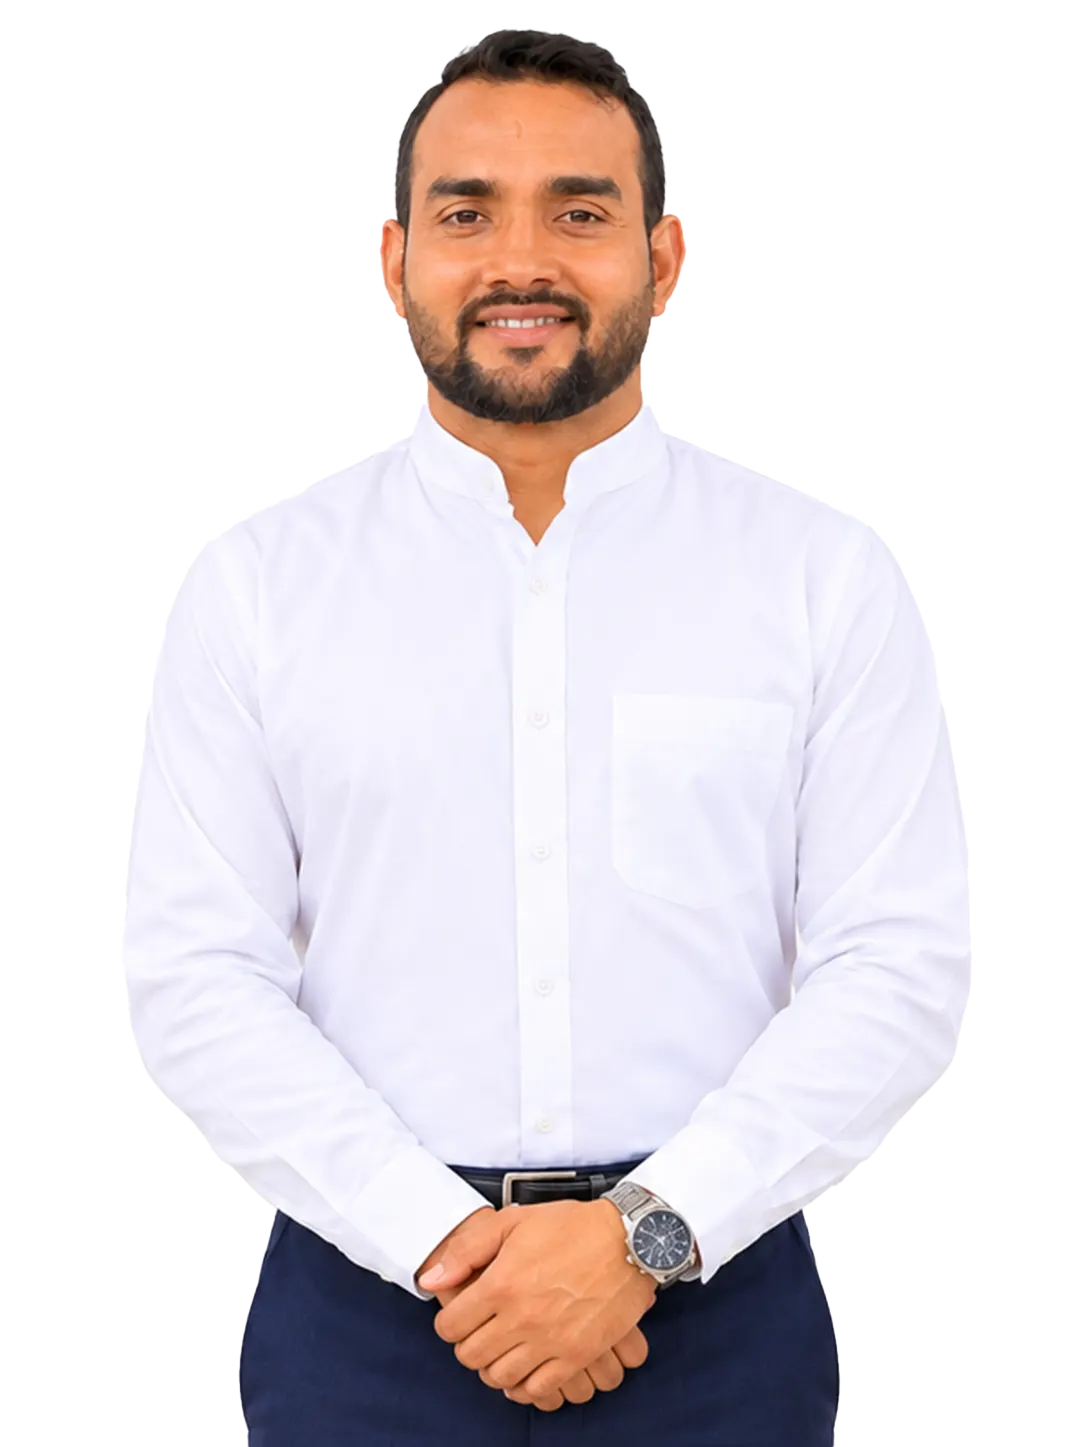
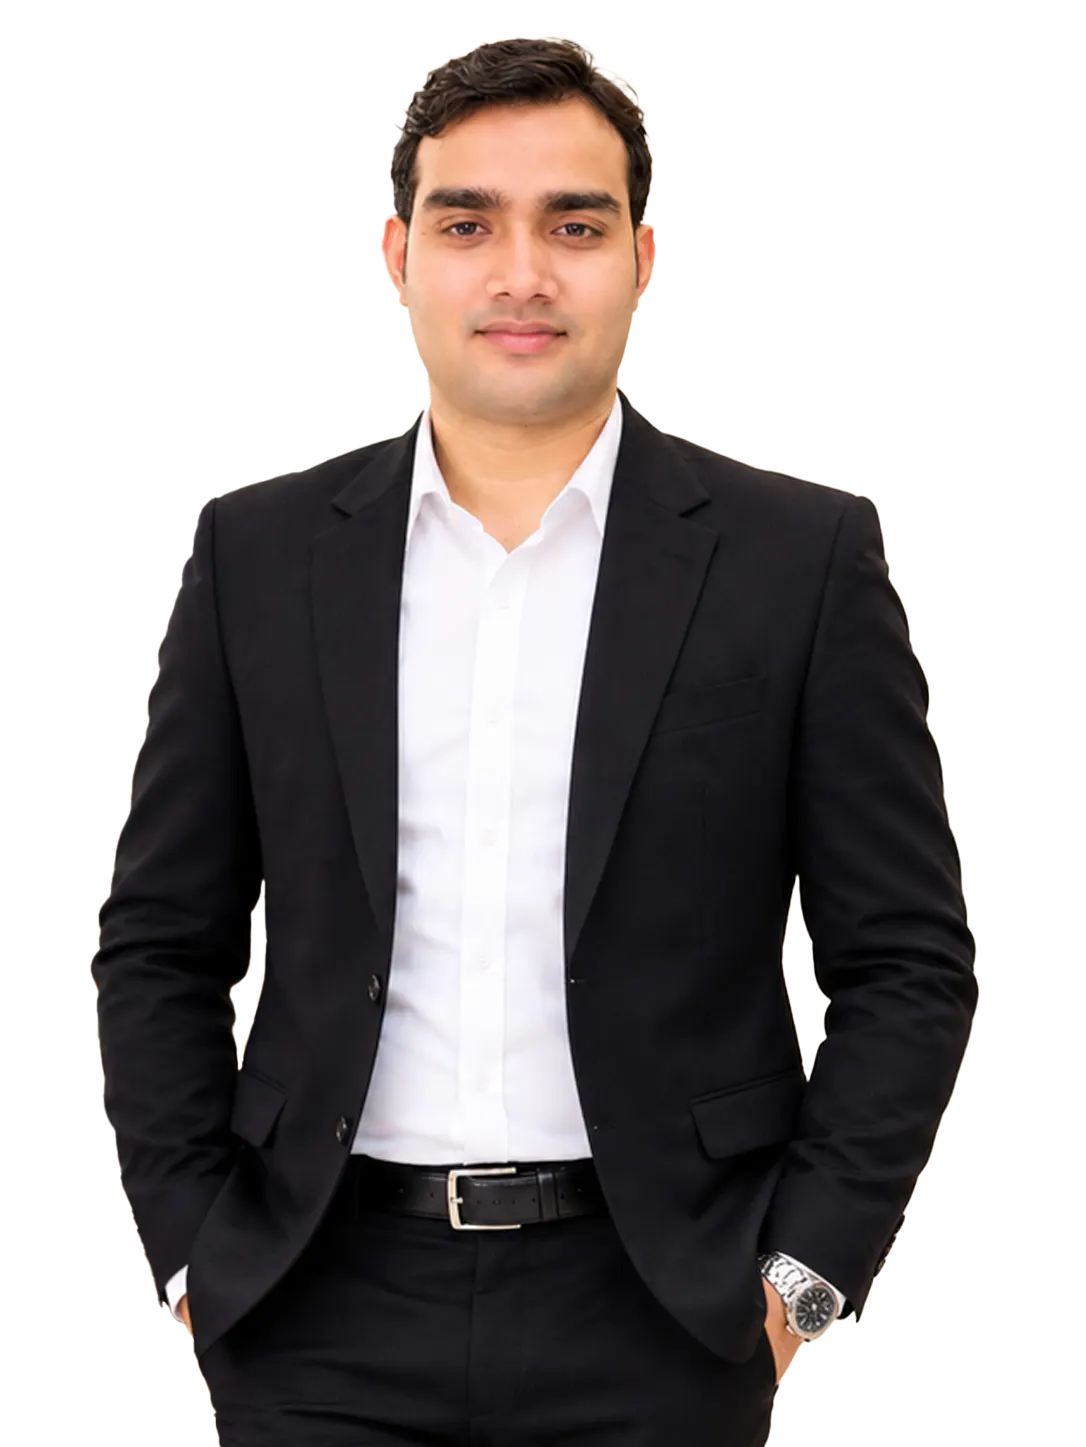
hero section updated

diff --git a/index.html b/index.html
@@ -1709,13 +1709,13 @@
                                                         <path d="M5 12h14m-6-6 6 6-6 6"></path>
                                                  </svg></span></span>
                             </button>
-                            <!-- <button aria-controls="mentor-dialog" aria-expanded="false" aria-haspopup="dialog" aria-label="View profile: Dr. Dharmita" class="faculty-person mentor-person" data-faculty="ashu-sharma" data-mentor="7" data-profile-src="images/rupram-sharma-nur-facu.webp" type="button">
+                            <button aria-controls="mentor-dialog" aria-expanded="false" aria-haspopup="dialog" aria-label="View profile: Dr. Dharmita" class="faculty-person mentor-person" data-faculty="ashu-sharma" data-mentor="7" data-profile-src="images/rupram-sharma-nur-facu.webp" type="button">
                                    <span aria-hidden="true" class="faculty-panel"></span>
                                    <img alt="Mr. Rupram Sharma" decoding="async" height="1448" loading="lazy" src="images/rupram-sharma-nur-facu.webp" width="1086">
                                    <span class="faculty-caption"><strong>Mr. Rupram Sharma</strong><span>Assistant Professor</span><span class="faculty-more">Click to know more <svg aria-hidden="true" viewBox="0 0 24 24">
                                                         <path d="M5 12h14m-6-6 6 6-6 6"></path>
                                                  </svg></span></span>
-                            </button> -->
+                            </button>
                             
                             <button aria-controls="mentor-dialog" aria-expanded="false" aria-haspopup="dialog" aria-label="View profile: Dr Priya Choudhary" class="faculty-person mentor-person" data-faculty="damyanti-kanwar-rathore" data-mentor="9" data-profile-src="images/dr-ankit-jain-nur-facu.webp" type="button">
                                    <span aria-hidden="true" class="faculty-panel"></span>
@@ -1885,7 +1885,7 @@
                                                  <button aria-label="View Dr. Naresh K. Soni" aria-pressed="false" data-mentor-thumb="4" type="button"><img alt="Dr. Naresh K. Soni" height="1447" loading="lazy" src="images/dr-naresh-kumar-soni.webp" width="1087"></button>
                                                  <button aria-label="View Dr. Naveen Nargar" aria-pressed="false" data-mentor-thumb="5" type="button"><img alt="Dr. Naveen Nargar" height="1447" loading="lazy" src="images/dr-naveen-nagar-associate-professor-nur-facu.webp" width="1087"></button>
                                                  <button aria-label="View Ms. Monika Yadav" aria-pressed="false" data-mentor-thumb="6" type="button"><img alt="Ms. Monika Yadav" height="1536" loading="lazy" src="images/ms-monika-yadav-associate-professor-nur-facu.webp" width="1024"></button>
-                                                 <!-- <button aria-label="View Mr. Rupram Sharma" aria-pressed="false" data-mentor-thumb="7" type="button"><img alt="Mr. Rupram Sharma" height="1448" loading="lazy" src="images/rupram-sharma-nur-facu.webp" width="1086"></button> -->
+                                                 <button aria-label="View Mr. Rupram Sharma" aria-pressed="false" data-mentor-thumb="7" type="button"><img alt="Mr. Rupram Sharma" height="1448" loading="lazy" src="images/rupram-sharma-nur-facu.webp" width="1086"></button>
                                                  <!-- <button aria-label="View Dr. Bandita Gupta (OT)" aria-pressed="false" data-mentor-thumb="8" type="button"><img alt="Dr. Bandita Gupta (OT)" height="2048" loading="lazy" src="images/dr-bandita-gupta-ot.webp" width="1535"></button> -->
                                                  <button aria-label="View Mr. Ankit Kumar Jain" aria-pressed="false" data-mentor-thumb="9" type="button"><img alt="Mr. Ankit Kumar Jain" height="1447" loading="lazy" src="images/dr-ankit-jain-nur-facu.webp" width="1087"></button>
                                                  <button aria-label="View Mr. Sunil Sharma" aria-pressed="false" data-mentor-thumb="10" type="button"><img alt="Mr. Sunil Sharma" height="1536" loading="lazy" src="images/mr-sunil-sharma-asst-professor-nur-facu.webp" width="1024"></button>

diff --git a/js/script.js b/js/script.js
@@ -159,26 +159,26 @@ const facultyProfiles = [
     "sourceRow": 18,
     "generated": false
   },
-  // {
-  //   "id": "ashu-sharma",
-  //   "name": "Mr. Rupram Sharma",
-  //   "role": "Assistant Professor",
-  //   "qualification": "M.Sc. Nursing",
-  //   "specialisation": "Medical Surgical Nursing",
-  //   "experience": "12 Year",
-  //   "metrics": [
-  //     { "label": "Publications (Present University)", "value": "3" },
-  //     { "label": "Overall Publications", "value": "3" }
-  //   ],
-  //   "achievement": "1",
-  //   "research": "1",
-  //   "joined": "24.12.2021",
-  //   "appointment": "Permanent",
-  //   "department": "Nims Nursing College",
-  //   "portrait": "images/rupram-sharma-nur-facu.webp",
-  //   "sourceRow": 22,
-  //   "generated": false
-  // },
+  {
+    "id": "ashu-sharma",
+    "name": "Mr. Rupram Sharma",
+    "role": "Assistant Professor",
+    "qualification": "M.Sc. Nursing",
+    "specialisation": "Medical Surgical Nursing",
+    "experience": "12 Year",
+    "metrics": [
+      { "label": "Publications (Present University)", "value": "3" },
+      { "label": "Overall Publications", "value": "3" }
+    ],
+    "achievement": "1",
+    "research": "1",
+    "joined": "24.12.2021",
+    "appointment": "Permanent",
+    "department": "Nims Nursing College",
+    "portrait": "images/rupram-sharma-nur-facu.webp",
+    "sourceRow": 22,
+    "generated": false
+  },
   {
     "id": "balaram-yadav",
     "name": "Mr. Ankit Kumar Jain",
